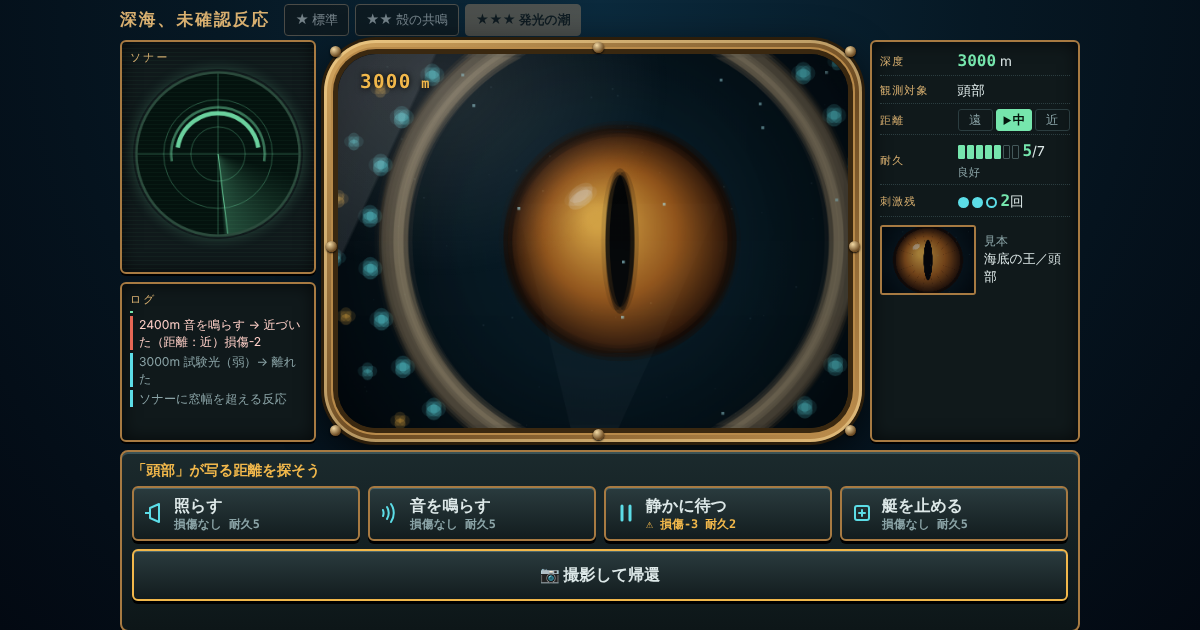
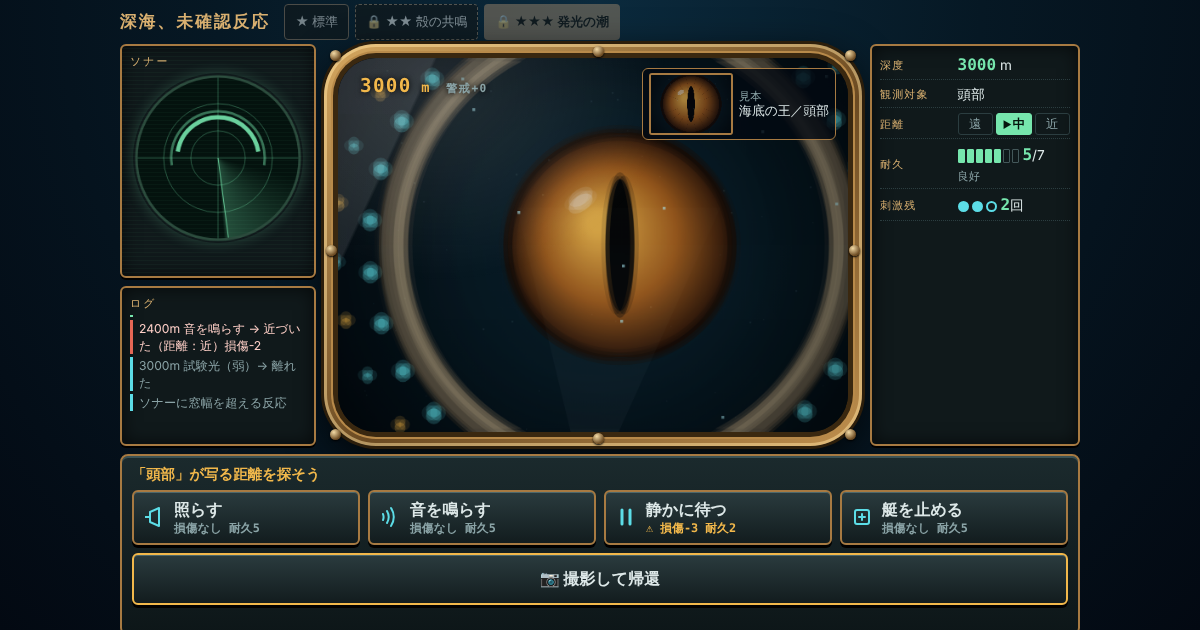
[FIX] 深海、未確認反応：初期画面で案内と操作が見えるよう再配置し、生物説明を図鑑へ整理 (#25)
Claude-Session: https://claude.ai/code/session_01MokQntdydgC6Eay9xqNknR

diff --git a/site/games/abyssal-signal/style.css b/site/games/abyssal-signal/style.css
@@ -64,8 +64,8 @@ h1 { margin: 0; font-size: 1.05rem; letter-spacing: .12em; color: var(--brass-l)
 #hullState { font-size: .7rem; color: var(--dim); white-space: nowrap; }
 .pips { display: inline-flex; gap: 3px; vertical-align: middle; }
 .pips i { width: 11px; height: 11px; border-radius: 50%; border: 2px solid var(--glow); } .pips i.f { background: var(--glow); }
-.sample { display: flex; align-items: center; gap: 8px; margin-top: 8px; font-size: .75rem; color: var(--dim); }
-.sample canvas { width: 96px; height: 70px; border: 2px solid var(--brass); border-radius: 3px; background: #04101a; flex: none; }
+.sample { position: absolute; right: 12px; top: 10px; display: flex; align-items: center; gap: 6px; padding: 4px 6px; background: #030912cc; border: 1px solid var(--brass); border-radius: 6px; font-size: .7rem; color: var(--dim); line-height: 1.25; z-index: 2; }
+.sample canvas { width: 84px; height: 62px; border: 2px solid var(--brass); border-radius: 3px; background: #04101a; flex: none; }
 .sample small { color: var(--fg); font-size: .8rem; }
 
 .logbox { min-height: 0; } .log { list-style: none; margin: 0; padding: 0; height: 150px; overflow-y: auto; font-size: .76rem; display: grid; align-content: start; gap: 3px; }
@@ -112,14 +112,18 @@ button.danger { border-color: var(--red); color: #ffd0c8; background: linear-gra
   .game { padding: 6px 8px 2px; }
   .top { gap: 4px 8px; margin-bottom: 6px; } h1 { font-size: .9rem; width: 100%; }
   .routes button { padding: 3px 7px; font-size: .74rem; }
-  .play { grid-template-columns: 112px minmax(0, 1fr); grid-template-areas: "win win" "sonar read" "log log" "console console"; gap: 6px; }
+  .play { grid-template-columns: 112px minmax(0, 1fr); grid-template-areas: "win win" "read read" "console console" "sonar log"; gap: 6px; }
+  .rows { grid-template-columns: 1fr 1fr; column-gap: 10px; } .r-depth { display: none !important; }
+  .rows > div { grid-template-columns: 3.6em 1fr; } .read.panel { padding: 4px 8px; }
+  .dist li { padding: 0; font-size: .72rem; } #hullState { display: none; }
+  .mission { left: 6px; right: 6px; bottom: 6px; padding: 3px 8px; font-size: .74rem; }
+  .sample { right: 6px; top: 6px; padding: 3px; gap: 4px; font-size: .6rem; } .sample small { font-size: .62rem; }
   .porthole { padding: 9px; border-radius: 30px; } .glass { border-radius: 22px; box-shadow: 0 0 0 3px #3a2810, 0 0 0 4px #b88a4a, inset 0 0 24px #000c; }
   .bolt { width: 8px; height: 8px; } .hud { left: 14px; top: 10px; }
   .panel { padding: 6px; } .sonar-box canvas { max-width: 96px; }
   .rows { gap: 3px; } .rows > div { grid-template-columns: 3.4em 1fr; } .rows dd { font-size: .78rem; } .rows dd b { font-size: .9rem; }
-  .sample { margin-top: 5px; gap: 6px; font-size: .68rem; } .sample canvas { width: 72px; height: 53px; } .sample small { font-size: .7rem; }
-  .log { height: 3.7em; }
-  .logbox .lbl { display: none; }
+  .sample canvas { width: 56px !important; height: 41px !important; }
+  .log { height: 5.2em; }
   .console { padding: 6px 8px 4px; } .hint { font-size: .82rem; margin-bottom: 4px; }
   .stims { gap: 5px; margin-bottom: 6px; }
   button.stim { grid-template-columns: 1fr; grid-template-rows: auto auto auto; justify-items: center; text-align: center; padding: 4px 2px; min-height: 58px; row-gap: 0; }
@@ -136,8 +140,8 @@ body.og .log { height: 96px; }
   * { scroll-behavior: auto !important; }
 }
 
-.mission { position: absolute; left: 10px; right: 10px; bottom: 10px; padding: 8px 10px; border: 1px solid var(--brass); border-radius: 6px; background: #030912d9; color: var(--fg); font-size: .85rem; line-height: 1.45; pointer-events: none; }
-.mission b { color: var(--amber); margin-right: 8px; letter-spacing: .15em; } .mission small { color: var(--sonar); font-size: .75rem; }
+.mission { position: absolute; left: 10px; right: 10px; bottom: 10px; padding: 5px 10px; border: 1px solid var(--brass); border-radius: 6px; background: #030912d9; color: var(--fg); font-size: .85rem; line-height: 1.45; pointer-events: none; }
+.mission b { color: var(--amber); margin-right: 8px; font-size: .8rem; letter-spacing: .15em; } .mission small { color: var(--sonar); font-size: .75rem; }
 .mission[hidden], body.og .mission { display: none; }
 .hint.coach { color: #04140c; background: var(--sonar); border-radius: 4px; padding: 4px 8px; }
 @keyframes nudge { 50% { box-shadow: 0 3px 0 #000, 0 0 0 3px var(--sonar); } }
@@ -147,3 +151,17 @@ button.nudge { animation: nudge 1.4s ease-in-out infinite; }
 .routes button.locked, .retry button.locked { opacity: .55; border-style: dashed; cursor: not-allowed; }
 .route-info .lock { color: var(--amber); }
 .unlock-note { margin: 6px 0; padding: 6px 10px; border: 1px solid var(--brass); border-radius: 4px; background: var(--inst); color: var(--brass-l); font-size: .9rem; line-height: 1.5; }
+
+.hud-alert { font-size: .7rem; color: var(--dim); margin-left: 6px; } .hud-alert.warn { color: var(--amber); }
+.lib-btn { font: inherit; font-size: .8rem; padding: 4px 10px; min-height: 36px; border-radius: 4px; border: 1px solid var(--glow); background: var(--inst); color: var(--glow); cursor: pointer; touch-action: manipulation; margin-left: auto; }
+.top .routes button { min-height: 36px; }
+.lib { position: fixed; inset: 0; z-index: 50; background: #030912e6; overflow-y: auto; padding: 12px; }
+.lib-card { max-width: 640px; margin: 0 auto; background: var(--inst); border: 2px solid var(--brass); border-radius: 8px; padding: 12px; }
+.lib-head { display: flex; justify-content: space-between; align-items: center; gap: 8px; flex-wrap: wrap; position: sticky; top: 0; background: var(--inst); padding-bottom: 6px; }
+.lib h2 { margin: 0; font-size: 1.05rem; color: var(--brass-l); } .lib h3 { margin: 14px 0 6px; font-size: .85rem; letter-spacing: .15em; color: var(--brass-l); }
+.lib-close { font: inherit; min-height: 44px; padding: 6px 12px; border-radius: 6px; border: 2px solid var(--brass); background: linear-gradient(#2a3b3e, #121c1e); color: var(--fg); cursor: pointer; font-weight: 700; touch-action: manipulation; }
+.lib-note { margin: 0; font-size: .75rem; color: var(--dim); }
+.lib-list { list-style: none; margin: 0; padding: 0; display: grid; gap: 6px; }
+.lib-list li { border-left: 3px solid var(--glow); padding: 4px 8px; font-size: .84rem; } .lib-list li.unk { border-color: #2b3d40; color: var(--dim); }
+.lib .route-info { font-size: .8rem; margin-bottom: 6px; }
+body.og .lib-btn { display: none; }

diff --git a/site/games/abyssal-signal/game.js b/site/games/abyssal-signal/game.js
@@ -41,6 +41,37 @@ function loadBest(route) {
 }
 function saveBest(route, v) { try { localStorage.setItem(`abyssal-signal:best:${route}`, String(v)); } catch (e) { /* noop */ } }
 
+function loadSeen() {
+  try { const v = JSON.parse(localStorage.getItem('abyssal-signal:seen') || '[]'); return new Set(Array.isArray(v) ? v.filter((k) => k in SPECIES) : []); } catch (e) { return new Set(); }
+}
+const seen = loadSeen();
+function markSeen(k) {
+  if (seen.has(k)) return;
+  seen.add(k);
+  try { localStorage.setItem('abyssal-signal:seen', JSON.stringify([...seen])); } catch (e) { /* noop */ }
+}
+const DEX = {
+  A: { look: '長いリボン状の体に、青白い発光器官が並ぶ。', shots: '全身・発光器官・捕食姿勢' },
+  B: { look: '半透明の鎧のような殻をまとったクラゲ。殻に模様が走る。', shots: '殻の模様・捕食姿勢' },
+  C: { look: '窓の大半を占める巨大な眼と、骨質の弧を持つ主。', shots: '頭部' },
+};
+function renderLibrary() {
+  const ul = $('libSpecies'); ul.textContent = '';
+  for (const k of Object.keys(SPECIES)) {
+    const li = document.createElement('li');
+    if (seen.has(k)) li.innerHTML = `<b>${SPECIES[k].name}</b><br>${DEX[k].look}<br><small>撮れる対象：${DEX[k].shots}／近距離の損傷 ${SPECIES[k].damage}</small>`;
+    else li.innerHTML = '<b>？？？</b><br><small>まだ出会っていない生物。潜ると記録されます。</small>', li.className = 'unk';
+    ul.appendChild(li);
+  }
+}
+let libOpener = null;
+function openLib() { renderLibrary(); renderRoutes(); libOpener = document.activeElement; $('lib').hidden = false; $('libClose').focus(); }
+function closeLib() { $('lib').hidden = true; if (libOpener && libOpener.focus) libOpener.focus(); }
+$('libBtn').addEventListener('click', openLib);
+$('libClose').addEventListener('click', closeLib);
+$('lib').addEventListener('click', (e) => { if (e.target === $('lib')) closeLib(); });
+document.addEventListener('keydown', (e) => { if (e.key === 'Escape' && !$('lib').hidden) closeLib(); });
+
 const now = () => performance.now();
 const say = (t) => { $('msg').textContent = t; };
 
@@ -100,6 +131,8 @@ function renderRoutes() {
 function render() {
   const enc = encounterOf(state);
   $('hudDepth').textContent = enc.depth;
+  $('hudAlert').textContent = `警戒+${enc.alert}`;
+  $('hudAlert').classList.toggle('warn', enc.alert > 0);
   $('rDepth').textContent = enc.depth;
   $('rTarget').textContent = enc.target;
   [...$('rDist').children].forEach((li, i) => li.classList.toggle('on', i === state.dist));
@@ -118,8 +151,8 @@ function render() {
   const nStim = routeById(state.route).stimuli.length;
   let coach = '';
   if (first && !state.shotTaken && !busy) {
-    if (state.used === 0) coach = '① まず光か音を押して、生物の反応を見よう（刺激は3回まで）';
-    else coach = `② 距離は「${DIST_LABEL[state.dist]}」。「見本」欄の絵に近い見え方なら 📷 で撮影。別の刺激でさらに探ってもOK（残り${MAX_STIMULI - state.used}回）`;
+    if (state.used === 0) coach = '① 光か音を押して生物の反応を見よう（3回まで）';
+    else coach = `② 距離は「${DIST_LABEL[state.dist]}」。見本に近ければ 📷 で撮影（残り${MAX_STIMULI - state.used}回）`;
   }
   $('hint').textContent = coach || goal;
   $('hint').classList.toggle('coach', !!coach);
@@ -162,6 +195,7 @@ function drawSample(enc) {
 function introEncounter() {
   const enc = encounterOf(state);
   const sp = SPECIES[enc.species];
+  markSeen(enc.species);
   const cue = cueOf(sp.react.light);
   addLog(`${enc.depth}m 試験光（弱）→ ${CUE_LABEL[cue]}（回数・耐久は減らない）`, 'demo');
   if (enc.species === 'C') addLog('ソナーに窓幅を超える反応', 'demo');

diff --git a/site/games/abyssal-signal/index.html b/site/games/abyssal-signal/index.html
@@ -20,8 +20,7 @@
     <header class="top">
       <h1>深海、未確認反応</h1>
       <div id="routes" class="routes" role="group" aria-label="航路"></div>
-      <p id="routeInfo" class="route-info"></p>
-      <ol id="alerts" class="alerts" aria-label="航路表：深度ごとの警戒補正（近距離の損傷に加算）"></ol>
+      <button type="button" id="libBtn" class="lib-btn" aria-haspopup="dialog">📖 図鑑</button>
     </header>
 
     <section id="play" class="play" aria-label="潜航">
@@ -33,8 +32,12 @@
             <canvas id="win" width="600" height="440" role="img" aria-label="潜水窓。生物が見える"></canvas>
             <div class="gloss" aria-hidden="true"></div>
             <div id="shutter" class="shutter" aria-hidden="true"></div>
-            <div id="mission" class="mission"><b>目的</b>深海の生物を、いちばん写る距離で撮って生還する。<br><small>下の<span id="missionN">2つ</span>のボタンで生物を刺激 → 距離と反応を見る → 📷で撮影</small></div>
-            <div class="hud" aria-hidden="true"><b id="hudDepth">600</b> m</div>
+            <div id="mission" class="mission"><b>目的</b>いちばん写る距離で撮って生還<span id="missionN" hidden></span></div>
+            <div class="hud" aria-hidden="true"><b id="hudDepth">600</b> m <span id="hudAlert" class="hud-alert"></span></div>
+            <div class="sample">
+              <canvas id="sample" width="120" height="88" aria-hidden="true"></canvas>
+              <span>見本<br><small id="sampleText"></small></span>
+            </div>
           </div>
         </div>
       </div>
@@ -46,16 +49,12 @@
 
       <div class="panel read">
         <dl class="rows">
-          <div><dt>深度</dt><dd><b id="rDepth">600</b> m</dd></div>
+          <div class="r-depth"><dt>深度</dt><dd><b id="rDepth">600</b> m</dd></div>
           <div><dt>観測対象</dt><dd id="rTarget">全身</dd></div>
           <div><dt>距離</dt><dd><ol id="rDist" class="dist"><li>遠</li><li>中</li><li>近</li></ol></dd></div>
           <div><dt>耐久</dt><dd><span id="hullBar" class="hull" aria-hidden="true"></span> <b id="rHull">7</b>/7 <small id="hullState"></small></dd></div>
           <div><dt>刺激残</dt><dd><span id="pips" class="pips" aria-hidden="true"></span> <b id="rLeft">3</b>回</dd></div>
         </dl>
-        <div class="sample">
-          <canvas id="sample" width="120" height="88" aria-hidden="true"></canvas>
-          <span>見本<br><small id="sampleText"></small></span>
-        </div>
       </div>
 
       <div class="panel logbox">
@@ -107,6 +106,17 @@
       </div>
     </section>
   </main>
+  <section id="lib" class="lib" hidden role="dialog" aria-modal="true" aria-labelledby="libT">
+    <div class="lib-card">
+      <div class="lib-head"><h2 id="libT">図鑑・航路</h2><button type="button" id="libClose" class="lib-close">閉じて潜水へ戻る</button></div>
+      <p class="lib-note">潜水中の状態はそのまま。出会った生物だけが載ります。</p>
+      <h3>生物</h3>
+      <ul id="libSpecies" class="lib-list"></ul>
+      <h3>航路</h3>
+      <p id="routeInfo" class="route-info"></p>
+      <ol id="alerts" class="alerts" aria-label="航路表：深度ごとの警戒補正（近距離の損傷に加算）"></ol>
+    </div>
+  </section>
   <footer class="arcade-link"><a href="/">Game Arcade</a></footer>
   <script type="module" src="game.js"></script>
 </body>
